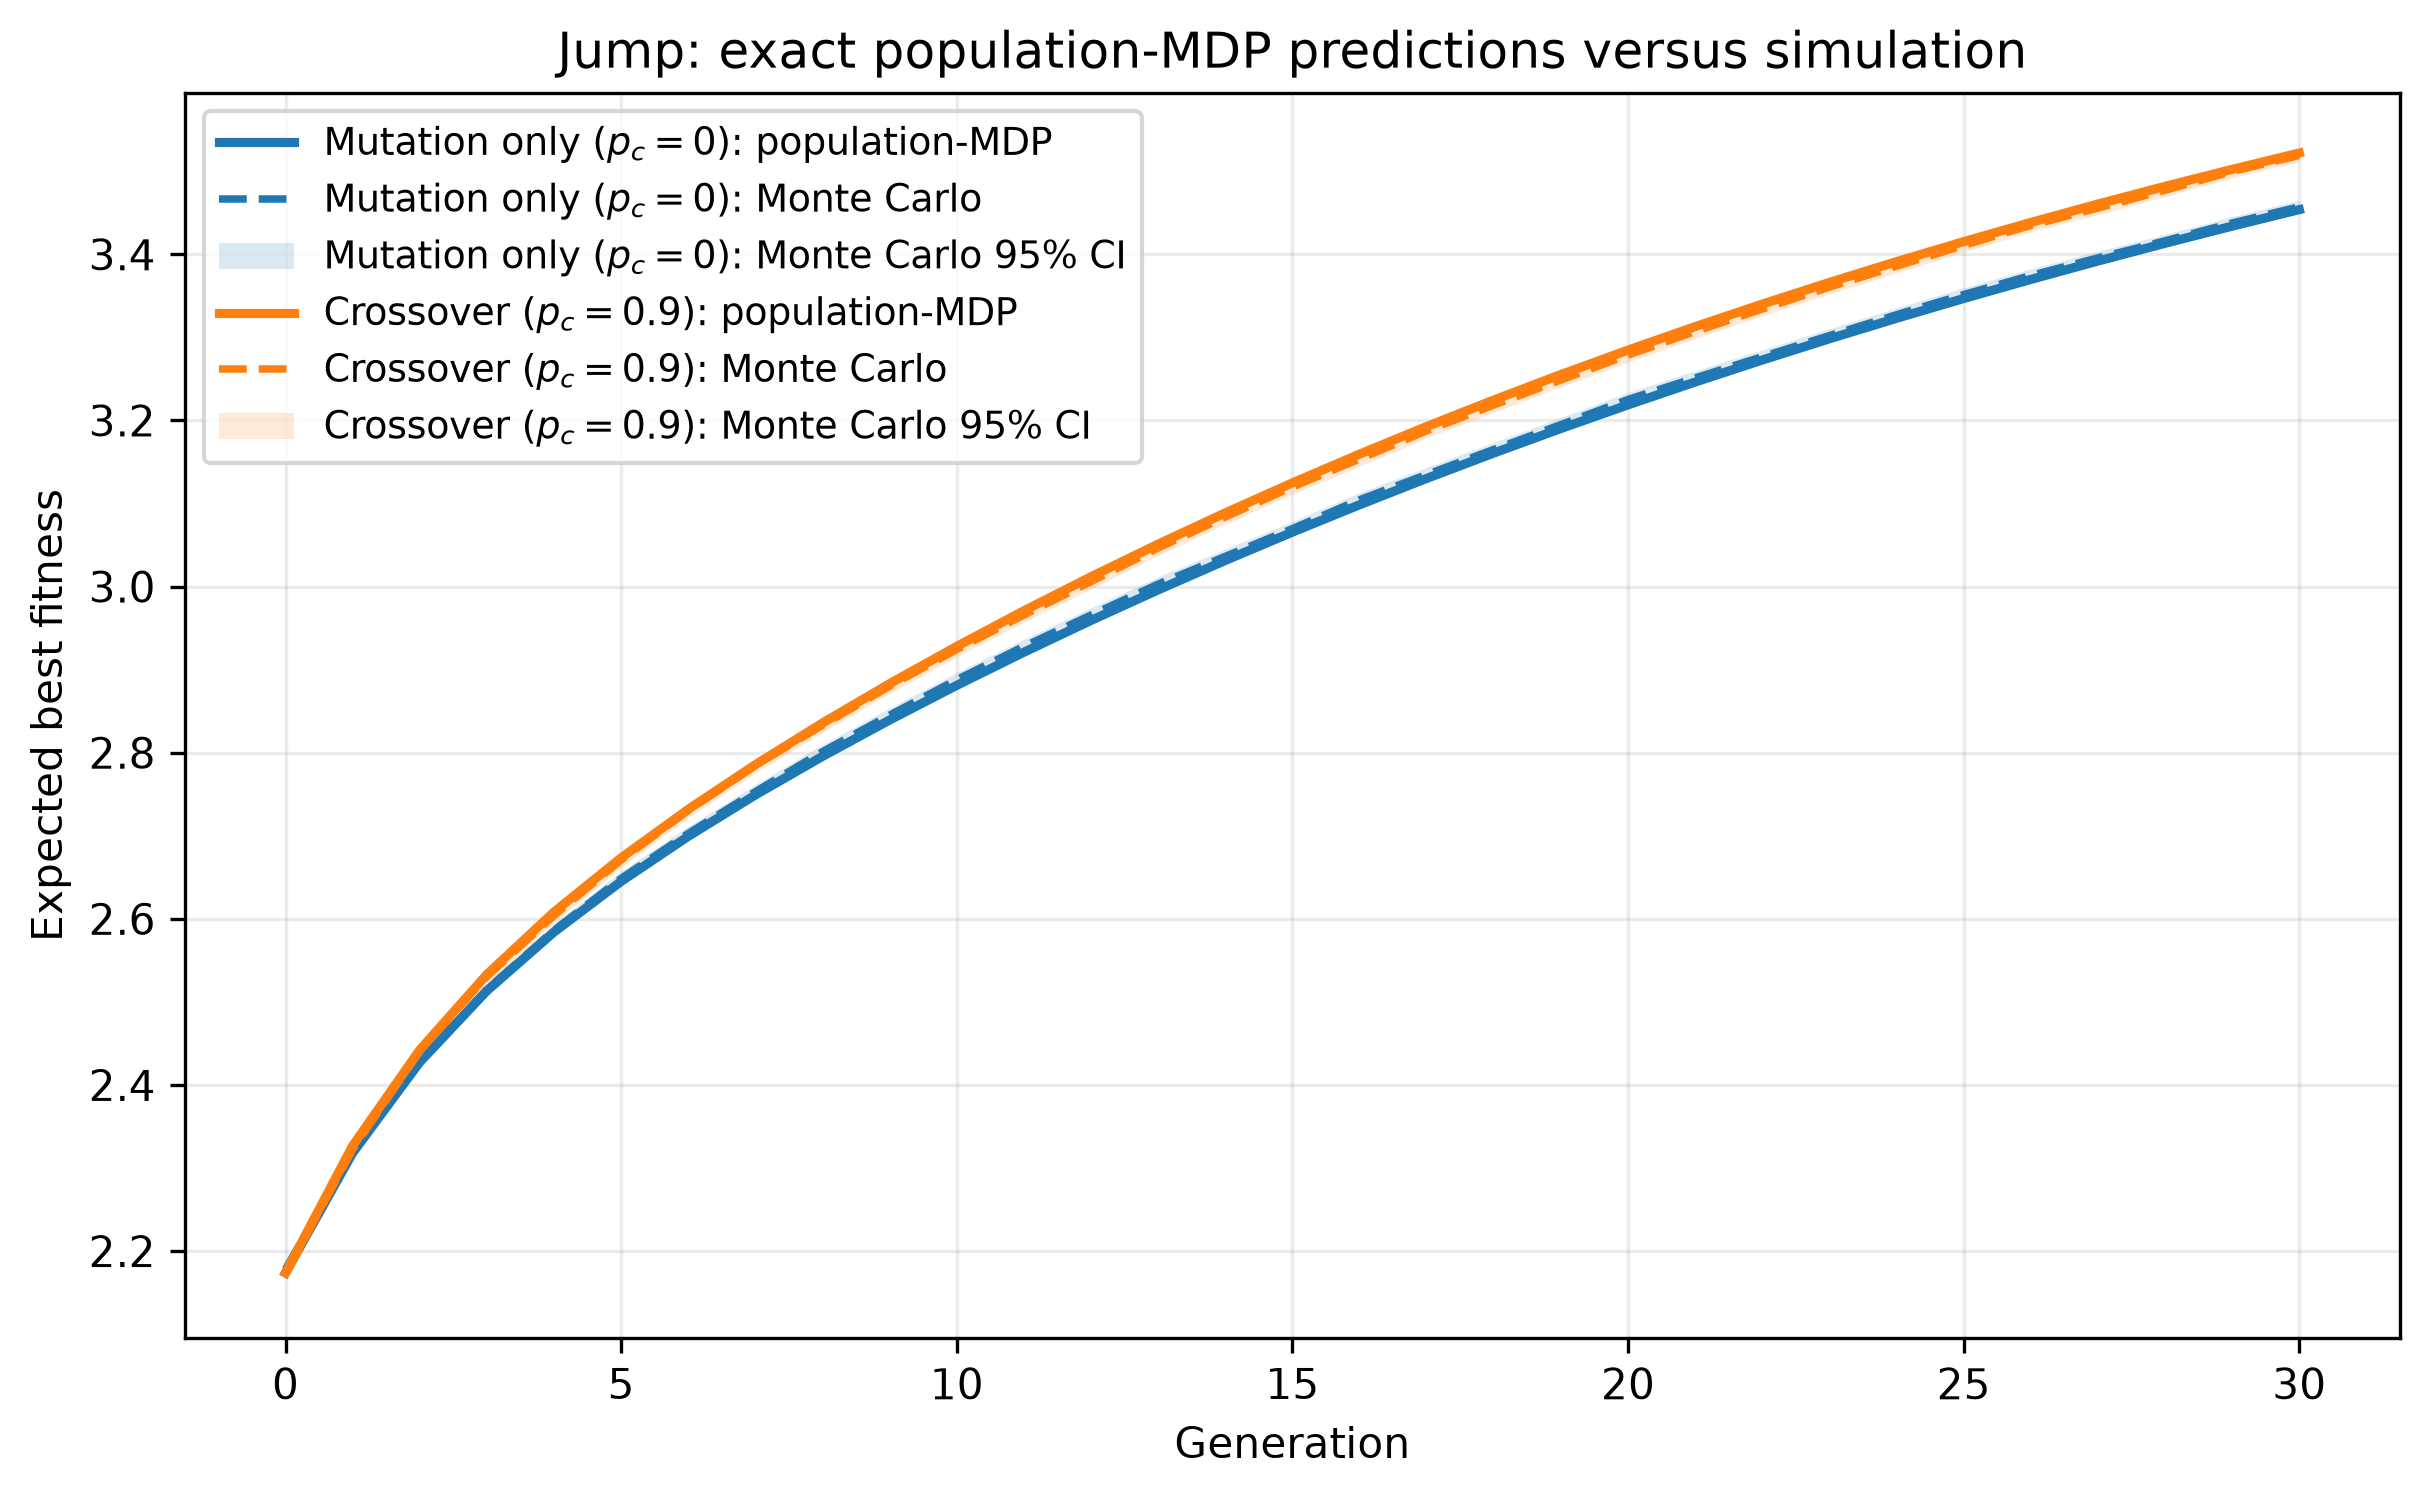
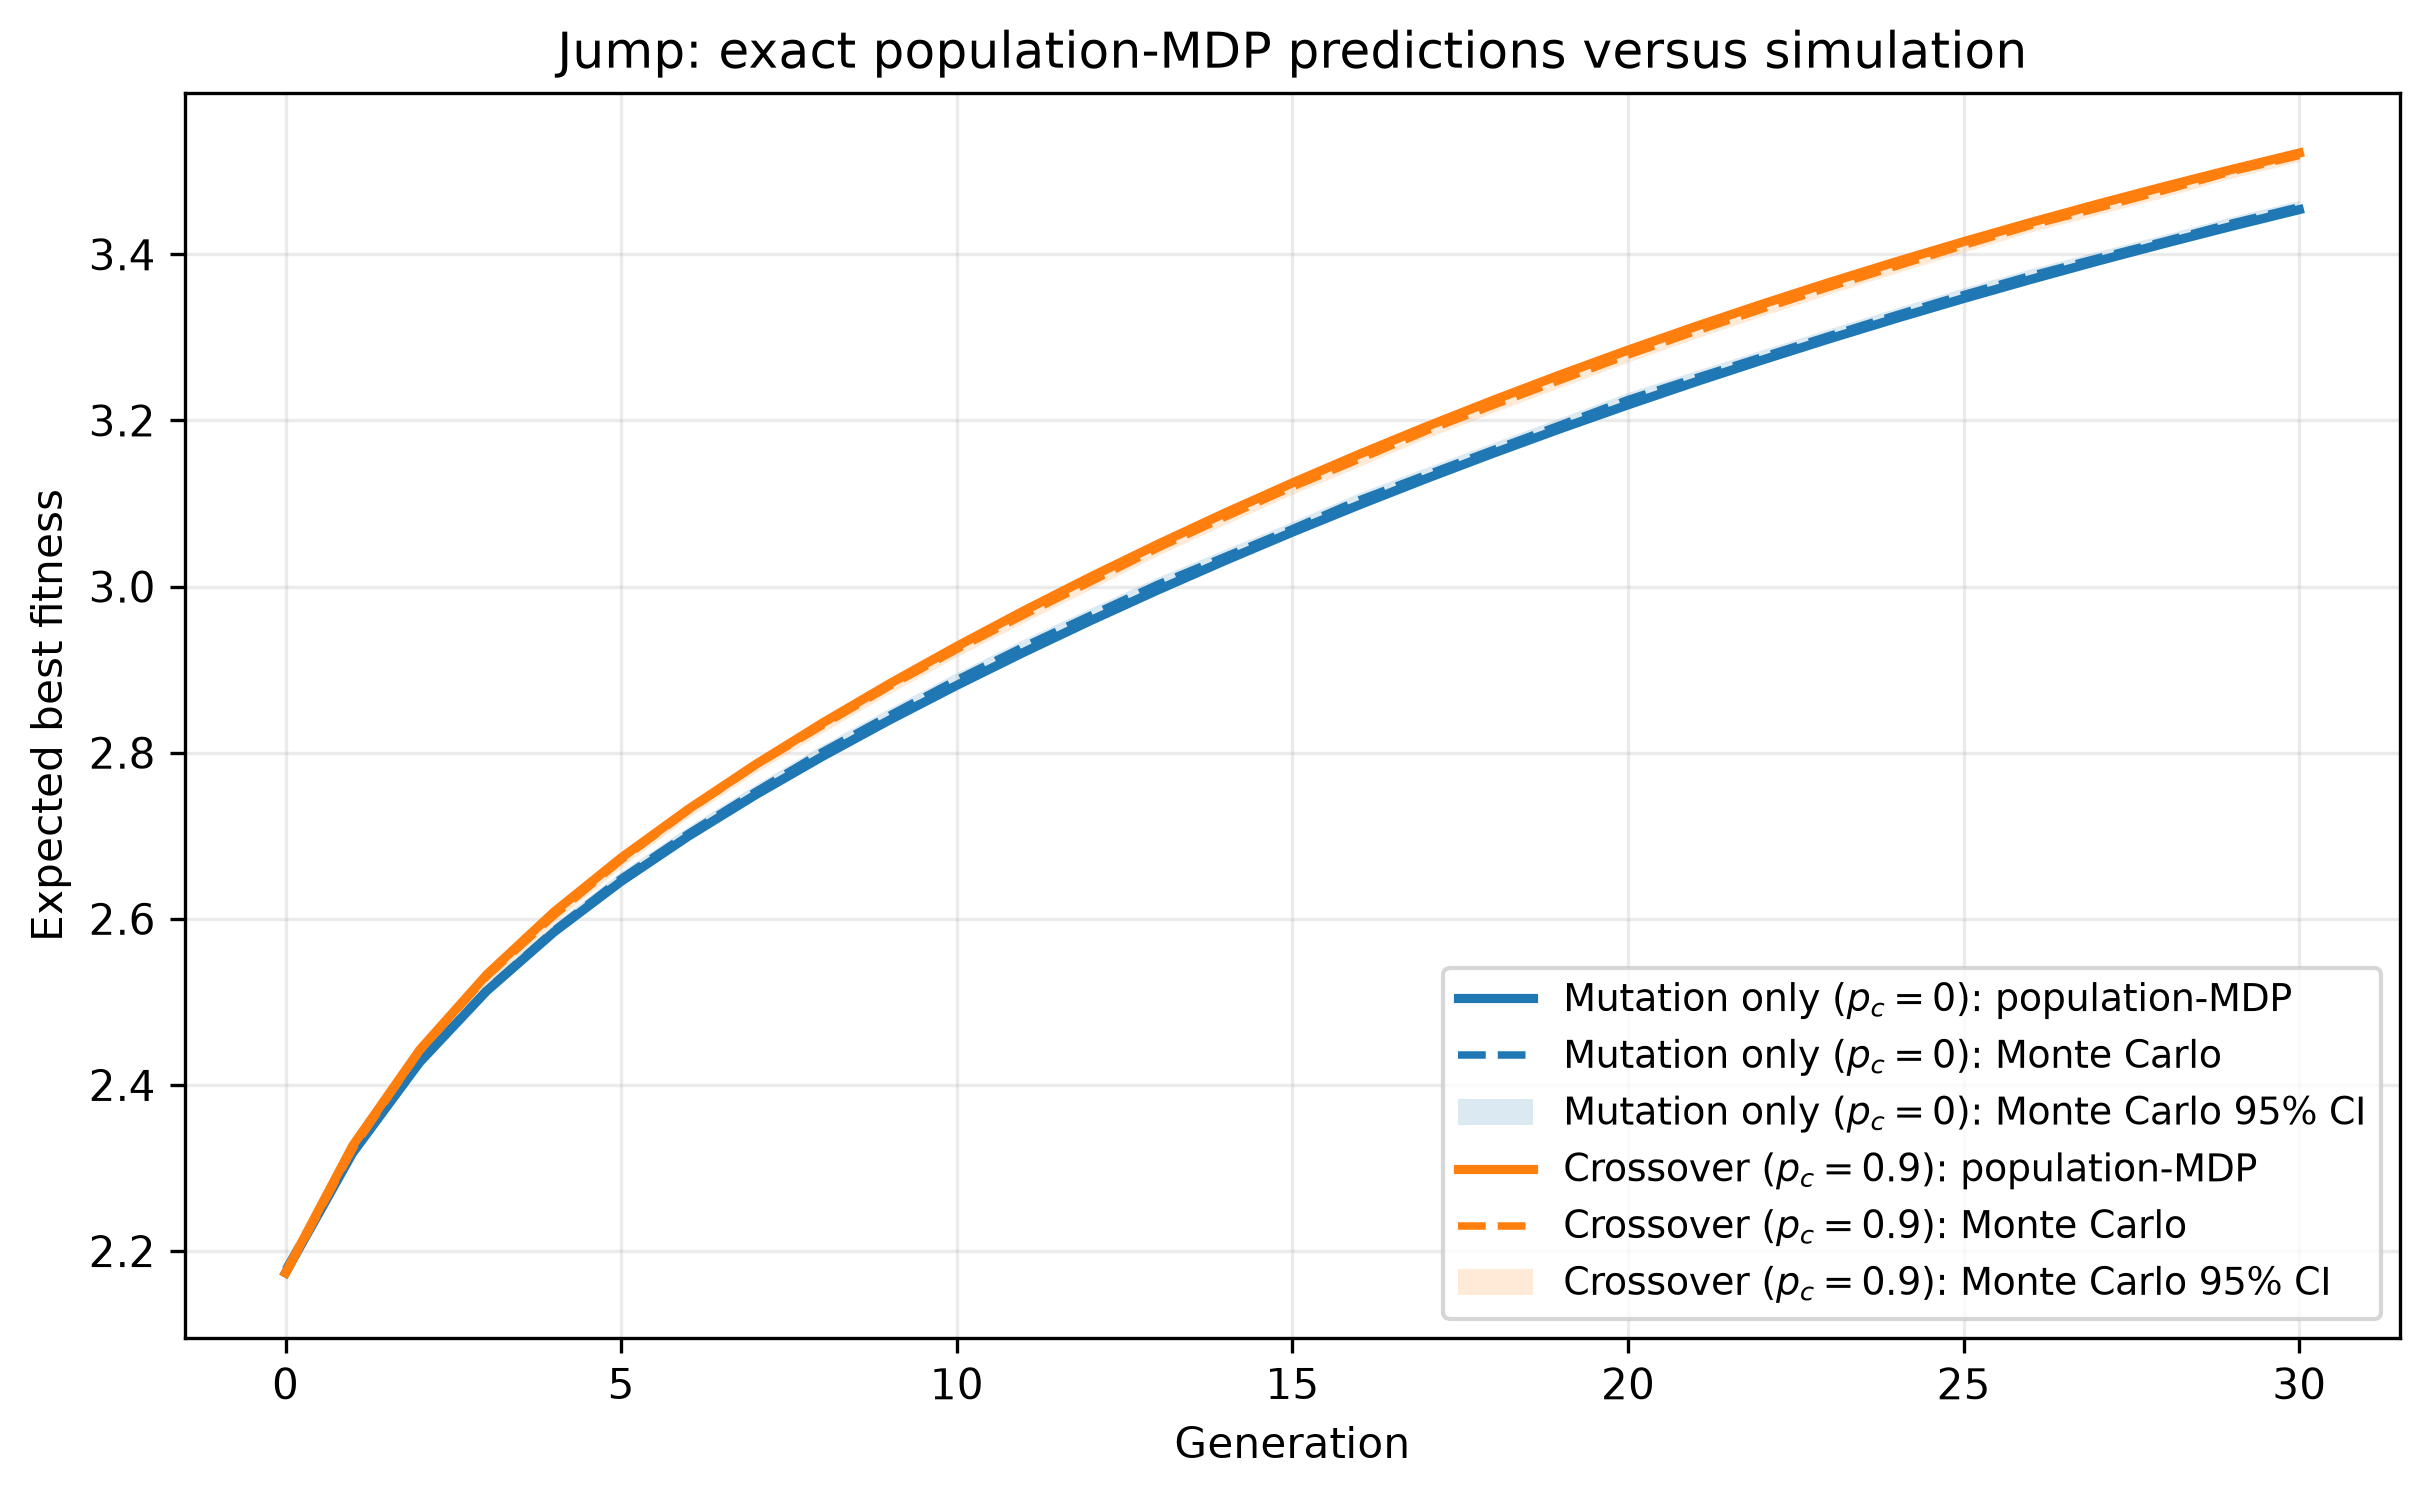
Forcing plot legend to bottom right corner

Changed region(s): [[0.5864, 0.6449, 0.9877, 0.8905], [0.0926, 0.0614, 0.463, 0.3071]]

diff --git a/plot_combined_ga_results.py b/plot_combined_ga_results.py
@@ -211,7 +211,7 @@ def plot_combined(
     ax.set_xlabel("Generation")
     ax.set_ylabel("Expected best fitness")
     ax.set_title(title)
-    ax.legend(loc="best", frameon=True, fontsize=9)
+    ax.legend(loc="lower right", frameon=True, fontsize=9) # place the legend in the bottom right corner
     ax.grid(alpha=0.25)
     fig.tight_layout()
     fig.savefig(output_prefix.with_suffix(".png"), dpi=300, bbox_inches="tight")
